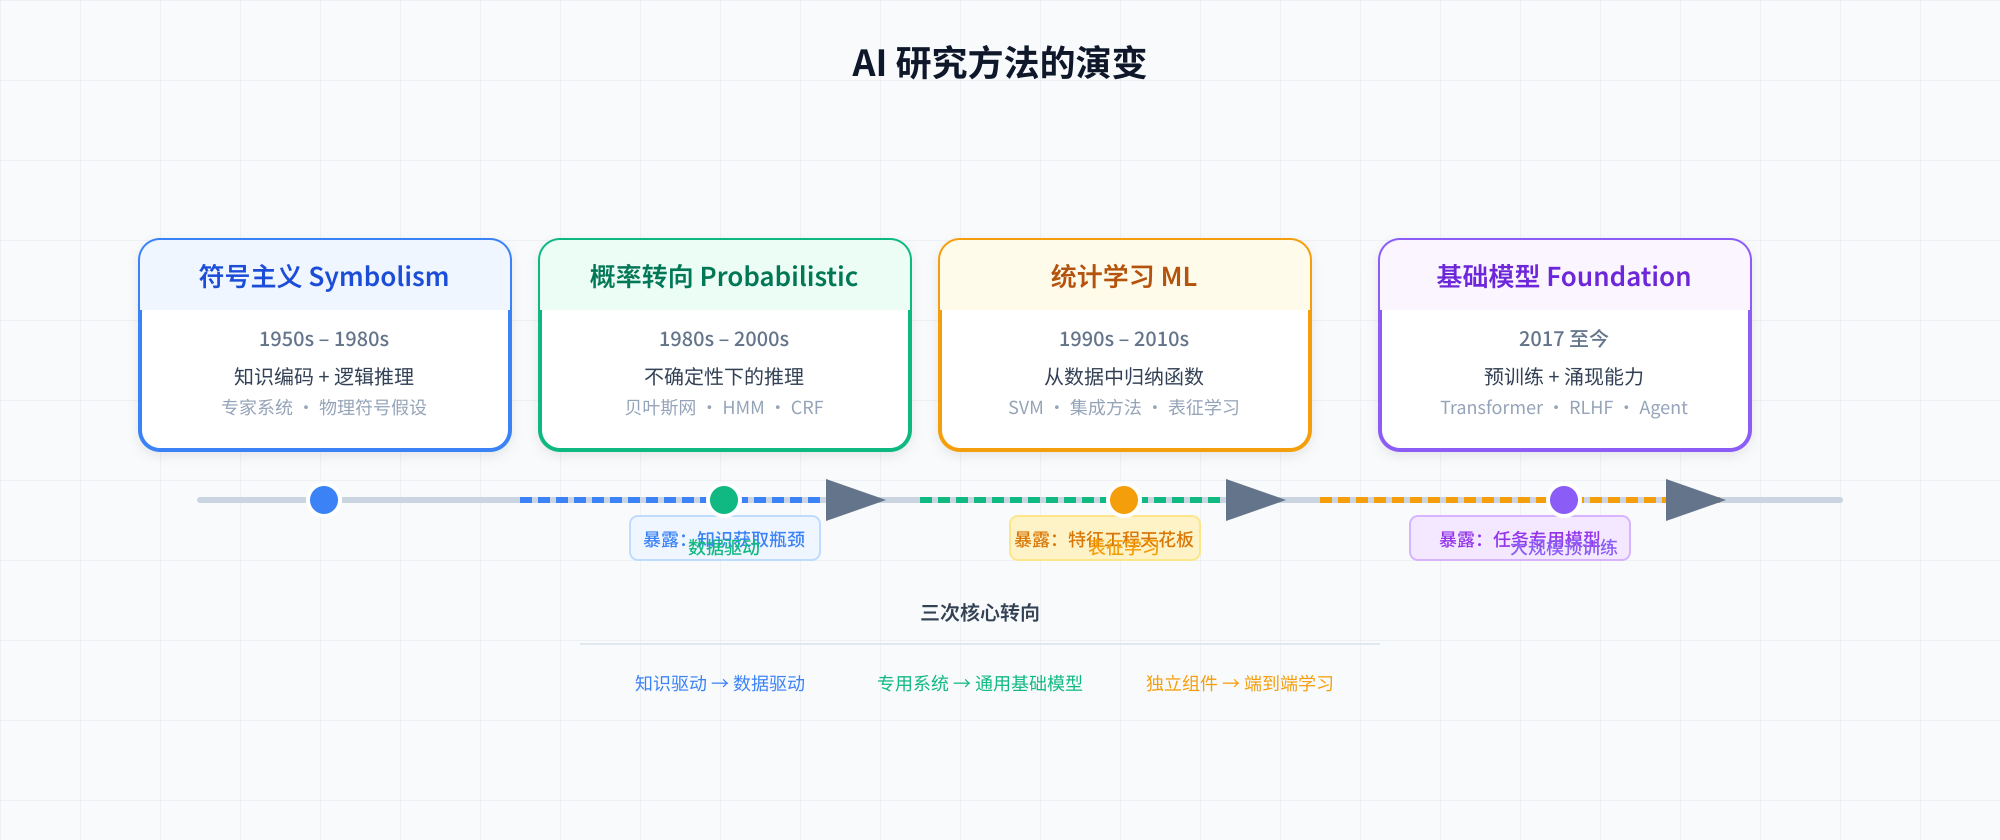
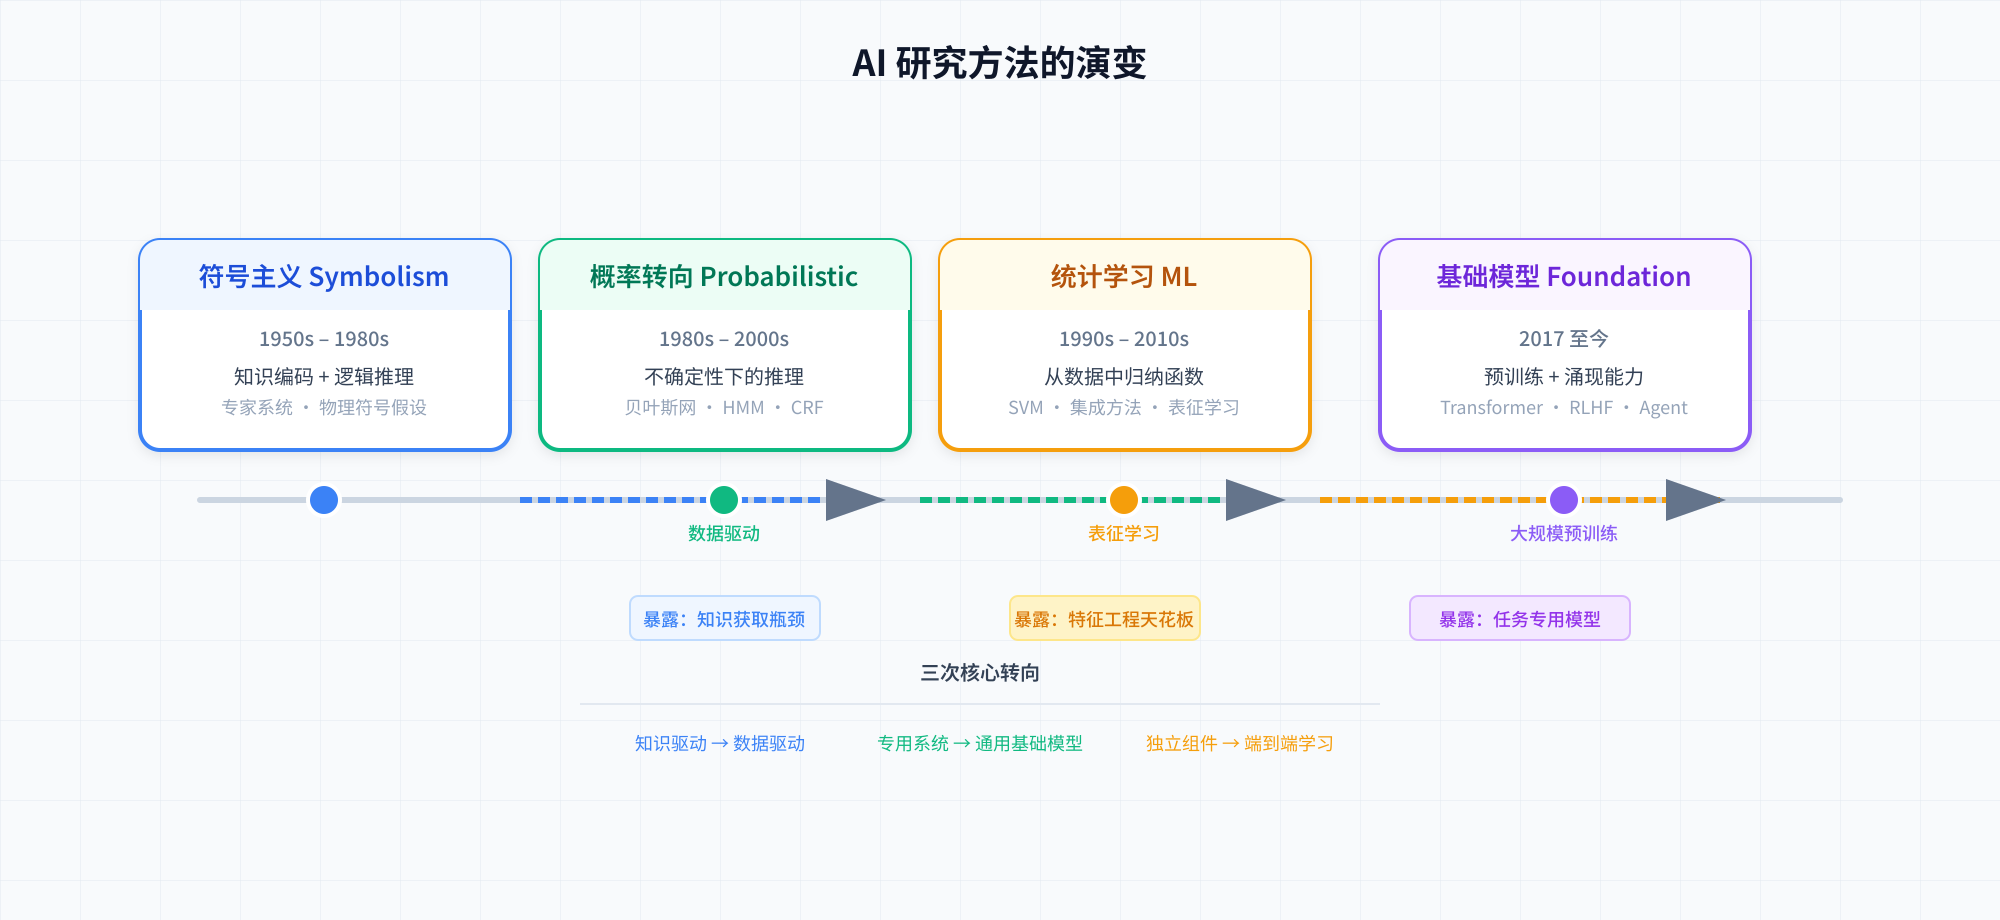
docs: 修复 ai_timeline 圆点与文字重叠（驱动方式下移 + 暴露错开）

diff --git a/02_基础理论学习/人工智能/01.学习笔记/深度学习的训练与评估.md b/02_基础理论学习/人工智能/01.学习笔记/深度学习的训练与评估.md
@@ -69,12 +69,11 @@ $$
 
 其中，$x \in \mathbb{R}^{784}$ 是把 $28 \times 28$ 灰度图拉平后的向量，$W^{(l)} \in \mathbb{R}^{d_{l+1} \times d_l}$ 和 $b^{(l)} \in \mathbb{R}^{d_{l+1}}$ 是第 $l$ 层的权重矩阵和偏置向量，$\sigma$ 是非线性激活函数（如 ReLU），$h^{(l)}$ 是第 $l$ 层的隐藏表示，$\hat{y} \in \mathbb{R}^{10}$ 是 10 个数字类别的预测概率。图 1 展示了上述计算过程对应的计算图。
 
-
 ![多层感知机的前向传播](./img/mlp_forward.png)
 
 **图 1** 多层感知机的前向传播
 
-我们可以看到整个计算过程非常直观，每一层都在做以下两件事：
+从上面这张图中，我们可以看到整个计算过程非常直观，每一层都在做以下两件事：
 
 1. 把上一层的表示 $h^{(l)}$ 通过 $W^{(l)} h^{(l)} + b^{(l)}$ 投影到一个新的空间，这个投影本身是线性的；
 2. 通过 $\sigma$ 把线性结果折一下，让模型能表示非线性关系。如果只有线性投影，无论堆多少层，最终等价于一个单层线性变换（这是矩阵乘法的结合律决定的）。所以 $\sigma$ 不是装饰，而是让 "深" 有意义的关键。